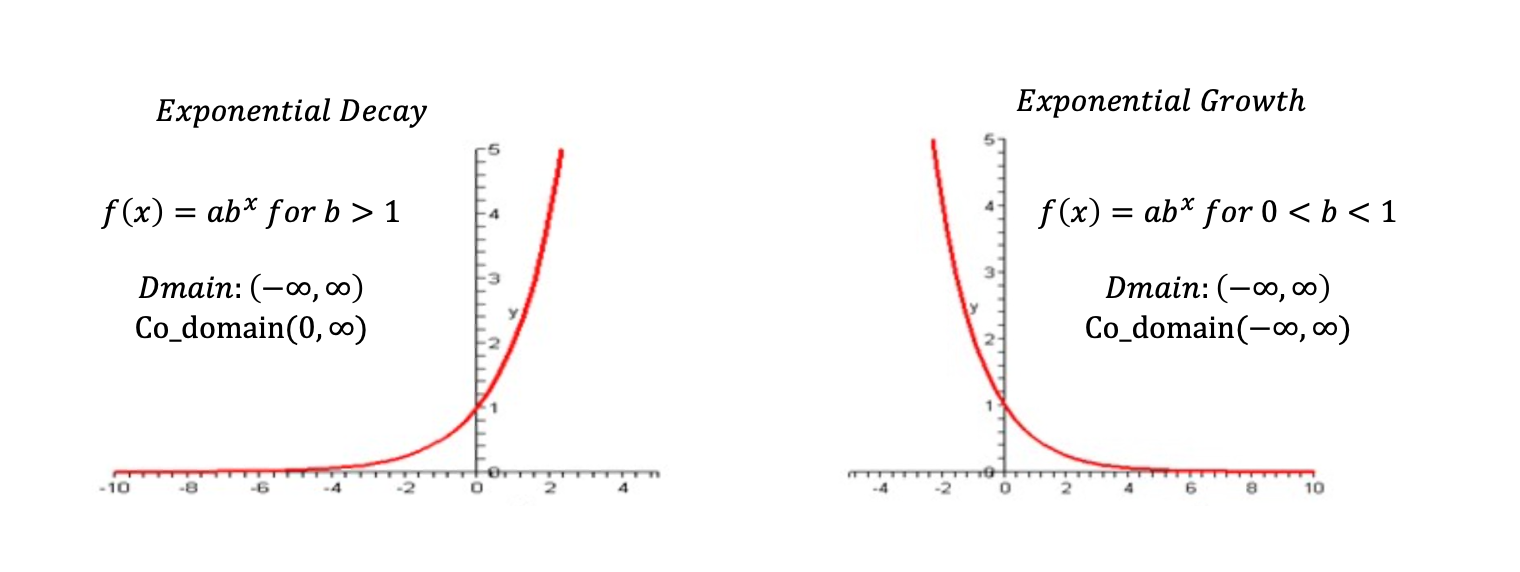
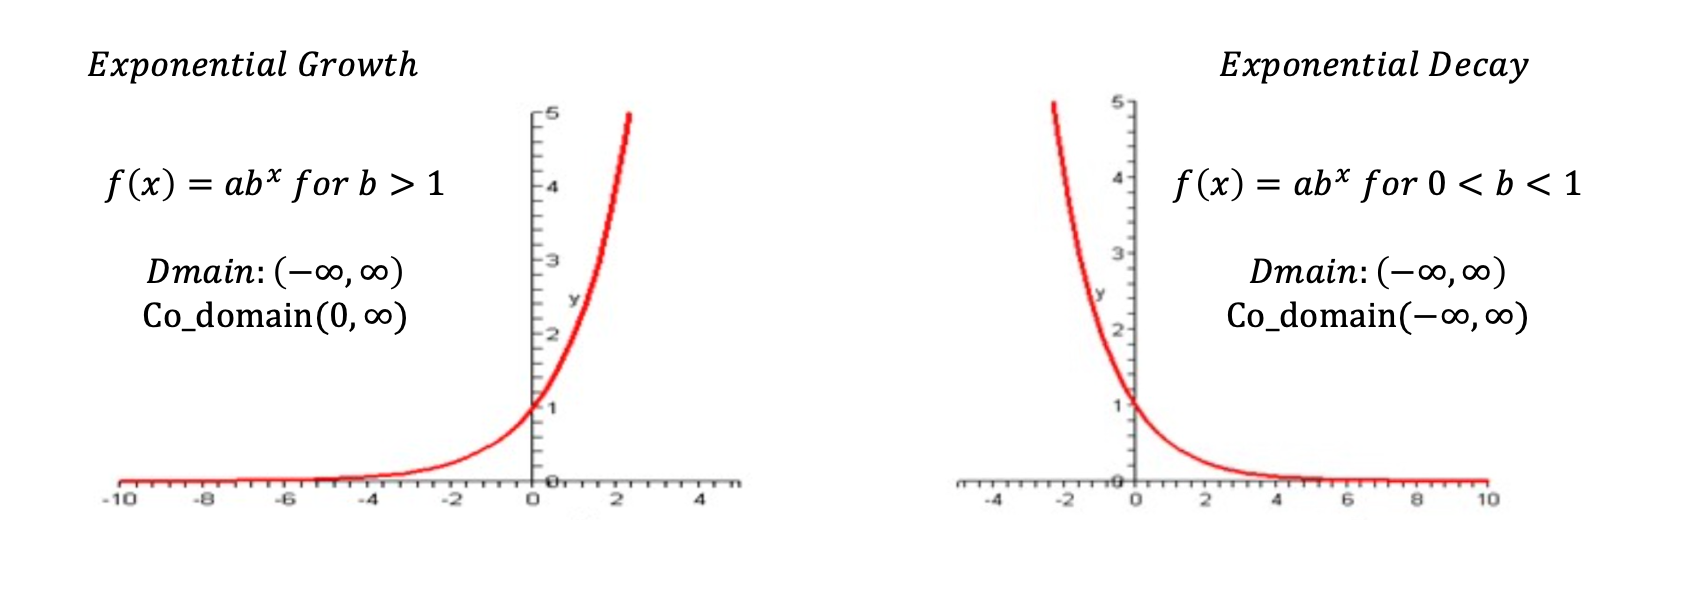
finished the rest questions
finished the rest questions according to the project requirments

diff --git a/main.tex b/main.tex
@@ -50,18 +50,20 @@ Instructor: PANKAJ KAMTHAN \\
     \textbf{July, 2022}\\
     \line(1,0){300}\\
     \vspace*{0.5in}
-    \textbf{Overleaf}:\url{https://www.overleaf.com/project/62ccdd9901199fc8cfc53a1f} \\
+    \textbf{Overleaf}:\url{https://www.overleaf.com/read/tsccdnnpvqpw} \\
     \textbf{Github}: \url{https://github.com/ninanee/SOEN6011_Project} 
 \end{center}
 \end{center}
 
 \end{titlepage}
 %END THE TITLE PAGE
+\newpage
+\tableofcontents
 
 \newpage
-\section{PROBLEM 1}\label{problem1}
-\subsection{Introduction}
-The function $f(x) = ab^x$ is an exponential function where $a\neq0, b>0$ and $b\neq1$. In this exponential function, $a$ is a initial quality, $b$ is the growth factor or decay factor and $c$ is the exponent. The function is called exponential because it has the input variable in the exponent and we can repeatedly multiplying by $b$~\cite{browder2012mathematical}.
+\section{Introduction}\label{problem1}
+
+The function $f(x) = ab^x$ is an exponential function where $a\neq0$ and $b>0$. In this exponential function, $a$ is the initial quality, $b$ is the growth factor or decay factor and $c$ is the exponent. The function is called exponential because it has the input variable in the exponent and we can repeatedly multiplying by $b$~\cite{browder2012mathematical}.
 
 \subsection{Domain}
 The domain of this function is given by all the values that $x$ can take. If $b$ is a positive real number other than 1 and $a> 0$, $x$ can take any value.\\
@@ -73,8 +75,8 @@ Therefore, the co-domain is $(0, \infty)$.
 
 \subsection{Characteristics}
 \begin{itemize}
-    \item Growth: if $b>0$, the function represents exponential growth which is a function increasing at a constant percentage. It is shown on the right hand side of Figure \ref{fig:my_label}.
-    \item Decay: if $0<b<1$, the function represents exponential decay which is a function decreasing at a constant percentage. It is shown on the left hand side of Figure \ref{fig:my_label}.
+    \item Growth: if $b>1$, the function represents exponential growth which is a function increasing at a constant percentage. It is shown on the left hand side of Figure \ref{fig:my_label}.
+    \item Decay: if $0<b<1$, the function represents exponential decay which is a function decreasing at a constant percentage. It is shown on the right hand side of Figure \ref{fig:my_label}.
     \item Invective and Subjective: this function is subjective since for every $y$, there is an $x$ such that $f(x) = y$, and it is not an invective function.
 \end{itemize}
 
@@ -86,22 +88,29 @@ Therefore, the co-domain is $(0, \infty)$.
 \end{figure}
 
 \subsection{Context of Use Model}
-The context of use model for the exponential function calculator is represented by the UML Class Diagram as Figure \ref{fig:context}.
+The context of use model for the exponential function calculator\cite{zelen1966application}\cite{lebanon2001boosting} is represented by the UML Class Diagram as Figure \ref{fig:context}.
 \begin{figure}[h]
     \centering
-    \includegraphics[width=8cm]{images/Context_diagram.png}
+    \includegraphics[width=10cm]{images/Context_diagram.png}
     \caption{The Context Diagram for exponential function calculator}
     \label{fig:context}
 \end{figure}
 
-As the figure shows above, the calculator can be used in both technical and non-technical environment \cite{zelen1966application}\cite{lebanon2001boosting}.
+\begin{enumerate}
+\item User: Users who use the calculator to get the output of $ab^x$ with the input x.
+\item Task: Calculate the output of $ab^x$ with the input $x$ and show the result to the user.
+\item
+Environment:
 \begin{itemize}
-    \item Technical Environment: help scientists model the number of new infections over time.
-    \item Non-technical environment: help a student calculate the retirement account.
+\item Technical environment:
+The power function of the used calculator. This calculator can't be used without power function.
+\item Non-technical environment:
+The location of where the user use this calculator.
 \end{itemize}
+\end{enumerate}
 
-\section{PROBLEM 2}\label{problem2}
-This section presents the assumptions and requirements for implementing $f(x)=ab^x$.
+\section{Project Requirements}\label{problem2}
+This section presents the assumptions and requirements\cite{iso2018ieee} for implementing $f(x)=ab^x$.
 \subsection{Assumptions}
 \begin{enumerate}
     \item The Function will accept only real numbers as inputs.
@@ -113,10 +122,12 @@ This section presents the assumptions and requirements for implementing $f(x)=ab
     \begin{tabular}{|p{3cm}|p{11cm}| }
     \hline
     \textbf{Identification} &  FR1 \\ \hline 
-    \textbf{Type} & Functional Requirement\\ \hline 
+    \textbf{Type} & Functional Requirement\\ \hline
+    \textbf{Version No.} &  1.0 \\ \hline 
+    \textbf{Owner} &  Yun Ni \\ \hline 
     \textbf{Priority} & High  \\ \hline
     \textbf{Difficulty} & Medium  \\ \hline
-    \textbf{Description} & System needs to take inputs $x, a, b$ to give an output of $ab^x$. Besides, needs to define the constrains that $a\neq0, b > 0, b \neq 1$. Because, when $a=0$ or $b=0$, the function will be simplified to $y = f(x) = 0$. In addition, when $b = 1$,  the function will be simplified to $y = f(x) = a$, like a constant function.\\ \hline
+    \textbf{Description} & System needs to take inputs $x, a, b$ to give an output of $ab^x$. Besides, needs to define the constrains that $a\neq0, b > 0$. Because, when $a=0$ the function will be simplified to $y = f(x) = 0$. \\ \hline
 \end{tabular}
 \end{center}
 
@@ -125,6 +136,8 @@ This section presents the assumptions and requirements for implementing $f(x)=ab
     \hline
     \textbf{Identification} &  FR2 \\ \hline 
     \textbf{Type} & Functional Requirement\\ \hline 
+    \textbf{Version No.} &  1.0 \\ \hline 
+    \textbf{Owner} &  Yun Ni \\ \hline 
     \textbf{Priority} & High  \\ \hline
     \textbf{Difficulty} & Medium  \\ \hline
     \textbf{Description} & Function $ab^x$ does not depend on any other functions like built-in or library functions.\\ \hline
@@ -135,7 +148,9 @@ This section presents the assumptions and requirements for implementing $f(x)=ab
     \begin{tabular}{|p{3cm}|p{11cm}| }
     \hline
     \textbf{Identification} &  FR3 \\ \hline 
-    \textbf{Type} & Functional Requirement\\ \hline 
+    \textbf{Type} & Functional Requirement\\ \hline
+    \textbf{Version No.} &  1.0 \\ \hline 
+    \textbf{Owner} &  Yun Ni \\ \hline 
     \textbf{Priority} & High  \\ \hline
     \textbf{Difficulty} & Medium  \\ \hline
     \textbf{Description} & Users can give an input from all real numbers for $x$.\\ \hline
@@ -147,6 +162,8 @@ This section presents the assumptions and requirements for implementing $f(x)=ab
     \hline
     \textbf{Identification} &  FR4 \\ \hline 
     \textbf{Type} & Functional Requirement\\ \hline 
+    \textbf{Version No.} &  1.0 \\ \hline 
+    \textbf{Owner} &  Yun Ni \\ \hline 
     \textbf{Priority} & High  \\ \hline
     \textbf{Difficulty} & Easy  \\ \hline
     \textbf{Description} & When users give other inputs than a number like a string, the system should not accept and should show the exception properly.\\ \hline
@@ -157,7 +174,9 @@ This section presents the assumptions and requirements for implementing $f(x)=ab
     \begin{tabular}{|p{3cm}|p{11cm}| }
     \hline
     \textbf{Identification} &  FR5 \\ \hline 
-    \textbf{Type} & Functional Requirement\\ \hline 
+    \textbf{Type} & Functional Requirement\\ \hline
+    \textbf{Version No.} &  1.0 \\ \hline 
+    \textbf{Owner} &  Yun Ni \\ \hline 
     \textbf{Priority} & High  \\ \hline
     \textbf{Difficulty} & Easy  \\ \hline
     \textbf{Description} & When users give inputs does not specify all there inputs like $a, b, x$, the system should not accept and throw an error.\\ \hline
@@ -168,15 +187,39 @@ This section presents the assumptions and requirements for implementing $f(x)=ab
     \begin{tabular}{|p{3cm}|p{11cm}| }
     \hline
     \textbf{Identification} &  FR6 \\ \hline 
-    \textbf{Type} & Functional Requirement\\ \hline 
+    \textbf{Type} & Functional Requirement\\ \hline
+    \textbf{Version No.} &  1.0 \\ \hline 
+    \textbf{Owner} &  Yun Ni \\ \hline 
     \textbf{Priority} & High  \\ \hline
     \textbf{Difficulty} & Easy  \\ \hline
     \textbf{Description} &Ensure the accuracy of decimal operations to the power of decimals.\\ \hline
 \end{tabular}
 \end{center}
 
-\section{PROBLEM 3}\label{problem3}
+\begin{center}
+    \begin{tabular}{|p{3cm}|p{11cm}| }
+    \hline
+    \textbf{Identification} &  NFR1 \\ \hline 
+    \textbf{Type} & Non-Functional Requirement\\ \hline
+    \textbf{Version No.} &  1.0 \\ \hline 
+    \textbf{Owner} &  Yun Ni \\ \hline 
+    \textbf{Priority} & High  \\ \hline
+    \textbf{Difficulty} & Easy  \\ \hline
+    \textbf{Description} & Users need to have the Java environment to use the project.\\ \hline
+\end{tabular}
+\end{center}
+
+\section{Algorithm}\label{problem3}
 This section presents the pseudo-code and algorithm for implementing $f(x)=ab^x$.
+\subsection{Mind map}
+
+\begin{figure}[h]
+    \centering
+    \includegraphics[width=13cm]{images/mindmap.jpeg}
+    \caption{The mind map of algorithm design}
+    \label{fig:mind}
+\end{figure}
+
 \subsection{Algorithm 1: Iterative}
 The interactive algorithm can execute the steps in number of iterations, using the loop. We can track the result in a variable called prod, which is initially set to 1 and then use loop from 1 to x number of times. By incriminating by one on each iteration, we multiply prod by b. At the end of the loop value of prod is equal to $b^x$ then return the result of $a * prod$\cite{xu2015application}.
 
@@ -270,7 +313,7 @@ For calculating the exponential function $f(x) = ab^x$ more properly, we can use
 \caption{Exponentiation by Taylor Series\cite{Anu:Stack_Overflow}}\label{exp1}
 \begin{algorithmic}[1]
 \Require $a \neq 0$ and $b > 0$ and $b \neq 1$ 
-\Function{logarithm}{$n$}\Comment{algorithm for $log(n)$}
+\Function{logarithm}{$n$}
 \State $sum\gets 0$
 \While{$n > 1$}
     \State $n\gets n/e$\Comment{e is a constant approximately equal to 2.71828}
@@ -279,7 +322,7 @@ For calculating the exponential function $f(x) = ab^x$ more properly, we can use
 \Return $x$
 \EndFunction
 
-\Function{exponential}{$b$}\Comment{algorithm for $e^b$}
+\Function{exponential}{$b$}
 \State $sum\gets 1$
 \State $n\gets 10$
 \For{$i\gets n-1$, 1}
@@ -301,17 +344,187 @@ For calculating the exponential function $f(x) = ab^x$ more properly, we can use
     \end{tabular}
 \end{center}
 \subsection{Conclusion}
-For a function, the accuracy is the most significant factor, since a wrong output is worse than a blank. The iterative and recursion algorithms can not calculate the decimal part of $f(x) = ab^x$ with high precision, therefore, my decision is to use Taylor Series algorithm to implement the function. It could runs more efficiently and provide results with high accuracy.
+For a function, the accuracy is the most significant factor, since a wrong output is worse than a blank. The iterative and recursion algorithms can not calculate the decimal part of $f(x) = ab^x$ with high precision, therefore, my decision is to use Taylor Series algorithm and the sub-function of the recursive algorithm to implement the project. It  runs more efficiently and provide results with high accuracy.
 
-\section{ PROBLEM 4}
+\section{Code Implementation}
 \subsection{Debugger}
-You must use a debugger. You must include one or more snapshots of the debugger you used to show its usage. Give a brief description, not exceeding one page, of the debugger you used, including its advantages and disadvantages.
+IntelliJ has a standard build-in debugger which allows the program to open in debug mode. It supports both step by step debugging, break point, check points and multiple views which enhance the experience of debugging.
+
+\begin{figure}[h]
+    \centering
+    \includegraphics[width=15cm]{images/debugger.png}
+    \caption{The snapshot of the debugger in IntelliJ}
+    \label{fig:debugger}
+\end{figure}
+
+\subsubsection{Advantages of the Debugger}
+\begin{center}
+    \begin{itemize}
+        \item As a build-in tool, it can be easily accessed by users. Users can create various kinds of breakpoints, such as conditional breakpoints to trace the source code.
+        \item Users can stop execution at a given point to investigate where it goes and what the values are.
+        \item The hot swapping function allows users to insert minor changes in the code without shutting down the process which is convenient.\cite{Anu:StackExchange}
+    \end{itemize}
+\end{center}
+
+\subsubsection{Disadvantages of the Debugger}
+\begin{center}
+    \begin{itemize}
+        \item For the multi-threading programs, the debugger tool in IntelliJ could not work efficient.
+        \item The debugger can not solve the bad code or correct the code.
+        \item The IntelliJ may run into bad state and have to clear the caches and restart the IDE to go through the build-clean-build to fix it.
+    \end{itemize}
+\end{center}
 
 \subsection{The Quality Attributes}
-Your Java source code must aim to be space-efficient, portable, and maintainable. Your Java program must aim to be correct, robust, time-efficient, and usable. State explicitly the effort made towards achieving each of these quality attributes
+The quality attributes assessed while implementing the source code and program are:
+\begin{center}
+    \begin{itemize}
+        \item \textbf{Efficiency}: In order to achieve efficiency, the primitive data types are used instead of using the user-defined data type. Therefore, the output is generated in the order of milliseconds.
+        \item \textbf{Portability}: With the executable jar file, users can use the program without any difficulties which could increase the portability.
+        \item \textbf{Maintainability}: Giving the simple and understandable names to variables could improve the maintainability. If there is an error in the function, I can locate the errors by their names. Besides, the core logic and the error handling have been properly implemented with comments.
+        \item \textbf{Correctness}: For the function $y = ab^x$, when x is an integer, the result can get easily by a loop or a recursion. When x is a decimal, the loop could generate incorrect result. To improve the accuracy, the Taylor Expansion is used to get the similar value of the $b^x$, then multiply by $a$ which could reduce the error.
+        \item \textbf{Robustness}: My program supports for the error handling, exceptions and thrown to handle errors. Therefore, the program will not crash and notify the users with appropriate error messages.
+        \item \textbf{Usability}: By providing the textual user interface for the project, users can use the calculator easily.
+    \end{itemize}
+\end{center}
 
 \subsection{Checkstyle}
-You must use a tool, such as Checkstyle, to check the pragmatic quality of your Java source code. You must include one or more snapshots of the tool you used to show its usage. Give a brief description, not exceeding one page, of the tool you used, including its advantages and disadvantages. 
+CheckStyle for java can scan the source code and point out coding issues that the code might have missed or might lead to problems.
+It can also help improve the Java Coding because we have to investigate and decide if this is a problem or not. I am using Google Checkstyle in the program like in Figure\ref{fig:Checkstyle} and Figure\ref{fig:Checkstyle2}.
+\begin{figure}[p]
+    \centering
+    \includegraphics[width=15cm]{images/checkstyle.png}
+    \caption{The snapshots of the Checkstyle}
+    \label{fig:Checkstyle}
+\end{figure}
+
+\begin{figure}[p]
+    \centering
+    \includegraphics[width=15cm]{images/check2.png}
+    \caption{The snapshots of the Checkstyle}
+    \label{fig:Checkstyle2}
+\end{figure}
+
+\subsubsection{Advantages of the Checkstyle}
+\begin{center}
+    \begin{itemize}
+        \item It is a convenient external plug and can be installed directly in the IntelliJ IDEA. 
+        \item It can check the layout and the formatting issue.
+        \item It gives developers the ability to customize their own rules for checking.
+    \end{itemize}
+\end{center}
+
+\subsubsection{Disadvantages of the Checkstyle}
+\begin{center}
+    \begin{itemize}
+        \item It is limited to only the code beautification. No logic checks at present.
+        \item There is no modification function after checking. Developers need to modify the problems one by one.
+    \end{itemize}
+\end{center}
+
+\section{Unit Test}
+Junit is a unit testing framework for Java programming language and has been import to the development of test-driven developments. In this project, Junit4 has been used to write the test cases.
+\subsection{Mapping Requirements with Test Cases}
+\begin{center}
+\begin{tabular}{|p{5cm}|p{10cm}|}
+\hline
+     \textbf{Requirement Identifier} & \textbf{Test Cases}\\ \hline
+      \textbf{FR1} & exceptionCalculate(), negativeCalculate()\\ \hline
+      \textbf{FR2} & absZero(), lnZero(), zeroPowerZero() \\ \hline
+      \textbf{FR3} & zeroPowerZero(), zeroPowerRationalNumber() \\ \hline
+      \textbf{FR4} & lnOfNegativeValues(), lnZero() \\ \hline
+      \textbf{FR5} & ePowerRealNumber(), exceptionCalculate()\\\hline
+      \textbf{FR6} & positiveNumberPowerZero(), positiveNumberPowerOne()\\ \hline
+\end{tabular}
+\end{center}
+
+\subsection{Test Cases}
+\begin{center}
+    \begin{tabular}{|p{4cm}|p{11cm}| }
+    \hline
+    \textbf{Test Case ID} & Test Case 1\\ \hline 
+    \textbf{Class Name} &  AbsTest\\ \hline 
+    \textbf{Method Name} & absZero(), absPositive(), absNegative()\\ \hline 
+    \textbf{Description} & Testing the absolute value function\\ \hline
+    \textbf{Input(s)} & 0; 5; -5\\ \hline
+    \textbf{Expected Output(s)} & 0; 5; 5\\ \hline
+    \textbf{Actual Output(s)} & 0; 5; 5\\ \hline
+    \textbf{Test Result} & Passed\\ \hline
+\end{tabular}
+\end{center}
+
+\begin{center}
+    \begin{tabular}{|p{4cm}|p{11cm}| }
+    \hline
+    \textbf{Test Case ID} & Test Case 2\\ \hline 
+    \textbf{Class Name} &  EXTest\\ \hline 
+    \textbf{Method Name} & ePowerZero(), ePowerPositive(), ePowerNegative(),  ePowerRealNumber() \\ \hline 
+    \textbf{Description} & Testing $e^x$ function with expansion equals 60\\ \hline
+    \textbf{Input(s)} & 0; 10; -10; 2.71818\\ \hline
+    \textbf{Expected Output(s)} & 1; 22026.46; 4.53; 15.15\\ \hline
+    \textbf{Actual Output(s)} & 0; 5; 5\\ \hline
+    \textbf{Test Result} & Passed\\ \hline
+\end{tabular}
+\end{center}
+
+\begin{center}
+    \begin{tabular}{|p{4cm}|p{11cm}| }
+    \hline
+    \textbf{Test Case ID} & Test Case 3\\ \hline 
+    \textbf{Class Name} &  LnTest\\ \hline 
+    \textbf{Method Name} & lnZero(), lnOfPositiveValues(), lnOfNegativeValues() \\ \hline 
+    \textbf{Description} & Testing $ln^x$ function \\ \hline
+    \textbf{Input(s)} & 0; 1; 53; -2\\ \hline
+    \textbf{Expected Output(s)} & throw exception; 0; 3.97; throw exception\\ \hline
+    \textbf{Actual Output(s)} &throw exception; 0; 3.97; throw exception\\ \hline
+    \textbf{Test Result} & Passed\\ \hline
+\end{tabular}
+\end{center}
+
+\begin{center}
+    \begin{tabular}{|p{4cm}|p{11cm}| }
+    \hline
+    \textbf{Test Case ID} & Test Case 4\\ \hline 
+    \textbf{Class Name} &  IntPowerTest\\ \hline 
+    \textbf{Method Name} & zeroPowerZero(), positiveNumberPowerZero(), negativeNumberPowerPositiveEvenNumber(), negativeNumberPowerNegativeNumber(), positiveNumberPowerOne() \\ \hline 
+    \textbf{Description} & Testing $b^x$ function with input with integers\\ \hline
+    \textbf{Input(s)} & (0, 0); (-4, 0); (-3, 4); (-5, -9); (7, 1)\\ \hline
+    \textbf{Expected Output(s)} & 1; 1; 81; -5.12E-7; 7\\ \hline
+    \textbf{Actual Output(s)} & 1; 1; 81; -5.12E-7; 7\\ \hline
+    \textbf{Test Result} & Passed\\ \hline
+\end{tabular}
+\end{center}
+
+\begin{center}
+    \begin{tabular}{|p{4cm}|p{11cm}| }
+    \hline
+    \textbf{Test Case ID} & Test Case 5\\ \hline 
+    \textbf{Class Name} & DoublePowerTest\\ \hline 
+    \textbf{Method Name} & zeroPowerZero(),  positiveNumberPowerZero(), negativeNumberPowerNegativeNumber(), positiveNumberPowerZero()  \\ \hline 
+    \textbf{Description} & Testing $b^x$ function with inputs type double \\ \hline
+    \textbf{Input(s)} & (0.0, 0.0); (7.0, 1.0); (5.5, -9.6); (0.0, 5.8)\\  \hline
+    \textbf{Expected Output(s)} & 1.0; 6.99; throw error; 0.0 \\ \hline
+    \textbf{Actual Output(s)} & 1.0; 6.99; throw error; 0.0 \\ \hline
+    \textbf{Test Result} & Passed\\ \hline
+\end{tabular}
+\end{center}
+
+\begin{center}
+    \begin{tabular}{|p{4cm}|p{11cm}| }
+    \hline
+    \textbf{Test Case ID} & Test Case 6\\ \hline 
+    \textbf{Class Name} & CalculateTest\\ \hline 
+    \textbf{Method Name} & integerCalculate(); positiveCalculate(); exceptionCalculate(); positiveCalculate()\\ \hline 
+    \textbf{Description} & Testing $ab^x$ function with inputs\\ \hline
+    \textbf{Input(s)} & (5, 3, 10); (2, 3.6, -2.3); (0, 2, 2); (6.3, 1.2, 1.3)\\  \hline
+    \textbf{Expected Output(s)} & 295245; 0.10508343093; throw exception; 8.36526215004 \\ \hline
+    \textbf{Actual Output(s)} & 295245; 0.10508343093; throw exception; 8.36526215004 \\ \hline
+    \textbf{Test Result} & Passed\\ \hline
+\end{tabular}
+\end{center}
+
+\section{Conclusion}
+Building a project, it is necessary to have an explicit scoping and separate each functional module. With this project, I understand the process of each stage. Even this project is a small scale, I met each stage of the project development process and gained the knowledge with the various implementation methods and tools which can be used officially in the real industry.
 
 \newpage
 \bibliographystyle{plain}
